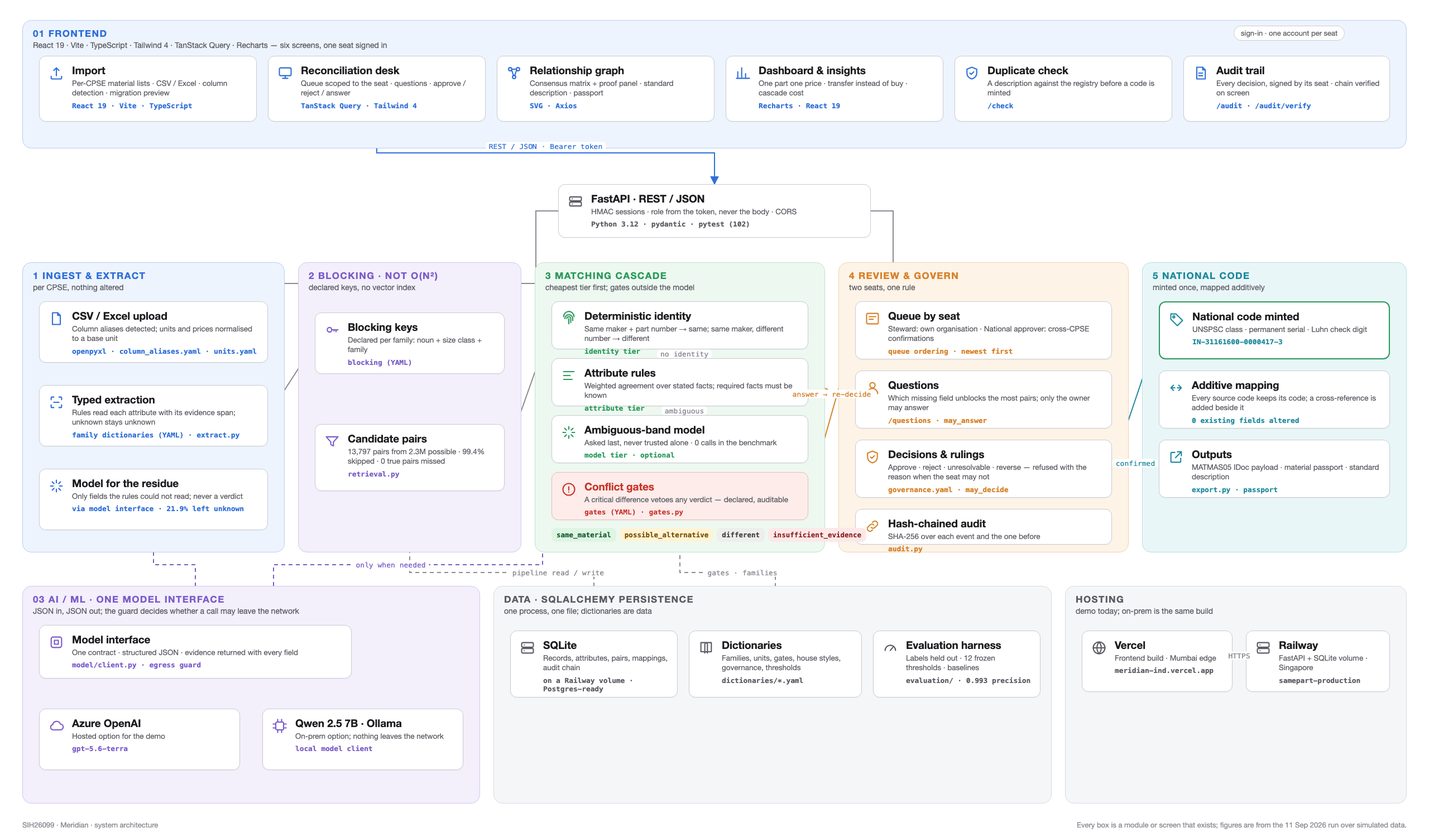
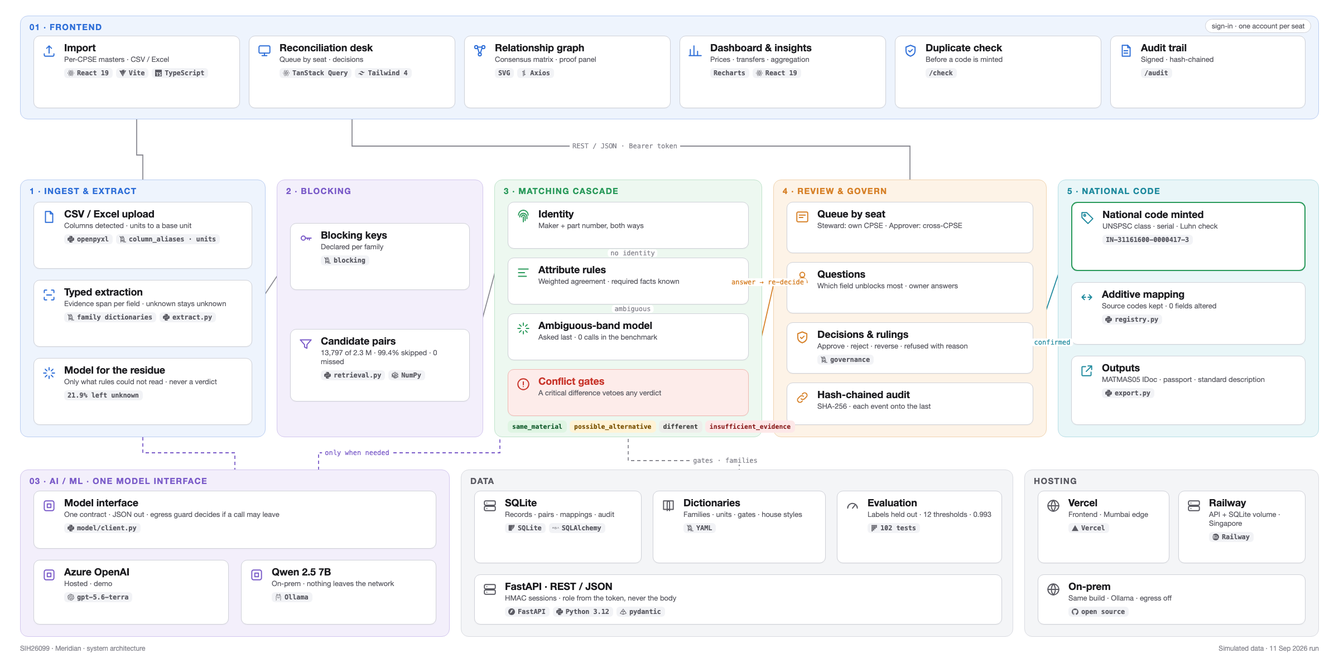
Architecture diagram, compact, with brand marks on the stack
Tighter layout at 2400x1180: no region subtitles, one line per box, and each
technology chip carries its mark (Simple Icons, CC0, vendored under
scripts/graphics/logos so the render needs no network). Same spec-driven
layout; boxes and wires are lists at the top of the file.

diff --git a/scripts/graphics/architecture.html b/scripts/graphics/architecture.html
@@ -3,55 +3,45 @@
 <title>Meridian — architecture</title>
 <style>
   :root{
-    --ink:#1b1b1f; --ink2:#5b5b63; --ink3:#8b8b93; --line:#c9cbd3; --bg:#ffffff;
+    --ink:#1b1b1f; --ink2:#5b5b63; --ink3:#8b8b93; --line:#cfd1d8; --bg:#ffffff;
     --blue:#2f6fd8; --blue-bg:#eef4fd; --blue-line:#b9cdf2;
     --purple:#7b5cc9; --purple-bg:#f3effb; --purple-line:#d3c6ee;
     --green:#2a9a5b; --green-bg:#edf8f0; --green-line:#bfe3cb;
     --orange:#d7822a; --orange-bg:#fdf3e7; --orange-line:#f0d3ae;
     --teal:#1f8a9e; --teal-bg:#e9f6f8; --teal-line:#b6dee5;
     --red:#c8342a; --red-bg:#fdecea; --red-line:#f1b8b2;
-    --grey-bg:#f5f6f8; --grey-line:#d9dbe1;
+    --grey:#5b5b63; --grey-bg:#f4f5f7; --grey-line:#d9dbe1;
   }
   *{box-sizing:border-box}
-  body{margin:0;background:var(--bg);width:2560px;height:1500px;position:relative;font-family:Inter,"Helvetica Neue",Arial,sans-serif;color:var(--ink);overflow:hidden}
-  .region{position:absolute;border-radius:16px;border:1.5px solid;padding:0}
-  .region .rt{position:absolute;left:18px;top:12px;font-size:17px;letter-spacing:.08em;font-weight:700;text-transform:uppercase}
-  .region .rs{position:absolute;left:18px;top:36px;font-size:14px;color:var(--ink2)}
-  .node{position:absolute;background:#fff;border:1.5px solid var(--line);border-radius:12px;padding:14px 16px 12px 58px;box-shadow:0 1px 2px rgba(20,20,30,.04)}
-  .node .ic{position:absolute;left:16px;top:16px;width:28px;height:28px;color:var(--ink2)}
-  .node .ic svg{width:28px;height:28px}
-  .node .t{font-size:19px;font-weight:700;line-height:1.15;letter-spacing:-.005em}
-  .node .s{font-size:13.5px;color:var(--ink2);margin-top:4px;line-height:1.3}
-  .node .k{font-size:13px;margin-top:6px;font-weight:600;font-family:"JetBrains Mono",Menlo,monospace;letter-spacing:-.01em}
-  .node.red{border-color:var(--red-line);background:var(--red-bg)}
-  .node.red .t{color:var(--red)}
+  body{margin:0;background:var(--bg);width:2400px;height:1180px;position:relative;font-family:Inter,"Helvetica Neue",Arial,sans-serif;color:var(--ink);overflow:hidden}
+  .region{position:absolute;border-radius:14px;border:1.5px solid}
+  .region .rt{position:absolute;left:16px;top:10px;font-size:15px;letter-spacing:.09em;font-weight:700;text-transform:uppercase}
+  .node{position:absolute;background:#fff;border:1.5px solid var(--line);border-radius:11px;padding:11px 14px 10px 54px;box-shadow:0 1px 2px rgba(20,20,30,.04)}
+  .node .ic{position:absolute;left:14px;top:13px;width:26px;height:26px}
+  .node .ic svg{width:26px;height:26px}
+  .node .t{font-size:18px;font-weight:700;line-height:1.1;letter-spacing:-.005em}
+  .node .s{font-size:13px;color:var(--ink2);margin-top:3px;line-height:1.25}
+  .node .chips{margin-top:7px;display:flex;flex-wrap:wrap;gap:4px 6px}
+  .chip{display:inline-flex;align-items:center;gap:5px;font-size:12px;font-weight:600;font-family:"JetBrains Mono",Menlo,monospace;letter-spacing:-.01em;color:var(--ink2);background:#f2f3f6;border-radius:6px;padding:2px 7px 2px 6px}
+  .chip i{display:inline-block;width:12px;height:12px;background:currentColor;-webkit-mask:var(--logo) center/contain no-repeat;mask:var(--logo) center/contain no-repeat}
+  .node.red{border-color:var(--red-line);background:var(--red-bg)} .node.red .t{color:var(--red)}
   .node.hot{border-color:var(--green);border-width:2px}
-  .cyl{position:absolute;background:#fff;border:1.5px solid var(--line);border-radius:60px/16px;padding:26px 16px 14px;text-align:center}
-  .cyl:before{content:"";position:absolute;left:0;right:0;top:0;height:22px;border-radius:60px/11px;border:1.5px solid var(--line);border-top:none;background:linear-gradient(#fff,#fff)}
-  .cyl .t{font-size:18px;font-weight:700}
-  .cyl .s{font-size:13px;color:var(--ink2);margin-top:3px}
-  .cyl .k{font-size:12.5px;margin-top:5px;font-weight:600;font-family:"JetBrains Mono",Menlo,monospace}
-  .lbl{position:absolute;font-size:13px;color:var(--ink3);background:#fff;padding:0 6px;border-radius:6px;white-space:nowrap;font-family:"JetBrains Mono",Menlo,monospace}
-  .pill{position:absolute;font-size:13px;color:var(--ink2);background:#fff;border:1.5px solid var(--line);border-radius:999px;padding:5px 12px;white-space:nowrap}
-  .verdicts{position:absolute;display:flex;gap:6px}
-  .v{font-size:12.5px;padding:5px 9px;border-radius:8px;font-weight:600;font-family:"JetBrains Mono",Menlo,monospace}
+  .lbl{position:absolute;font-size:12px;color:var(--ink3);background:#fff;padding:0 5px;border-radius:5px;white-space:nowrap;font-family:"JetBrains Mono",Menlo,monospace}
+  .pill{position:absolute;font-size:12.5px;color:var(--ink2);background:#fff;border:1.5px solid var(--line);border-radius:999px;padding:4px 11px;white-space:nowrap}
+  .verdicts{position:absolute;display:flex;gap:5px}
+  .v{font-size:11.5px;padding:4px 8px;border-radius:7px;font-weight:600;font-family:"JetBrains Mono",Menlo,monospace}
   .v.s{background:#dff5e3;color:#0f5a2a}.v.a{background:#fff3d6;color:#7a5200}.v.d{background:#eeeeeb;color:#444}.v.i{background:#fde8e8;color:#8a1c1c}
-  svg.wires{position:absolute;inset:0;width:2560px;height:1500px;pointer-events:none}
-  .foot{position:absolute;left:40px;right:40px;bottom:14px;display:flex;justify-content:space-between;font-size:13px;color:var(--ink3)}
+  svg.wires{position:absolute;inset:0;width:2400px;height:1180px;pointer-events:none}
+  .foot{position:absolute;left:36px;right:36px;bottom:10px;display:flex;justify-content:space-between;font-size:12px;color:var(--ink3)}
 </style>
 <body>
-<svg class="wires" id="wires">
-  <defs>
-    <marker id="ah" viewBox="0 0 10 10" refX="9" refY="5" markerWidth="8" markerHeight="8" orient="auto-start-reverse">
-      <path d="M0 0L10 5L0 10z" fill="#8b8b93"/></marker>
-    <marker id="ahb" viewBox="0 0 10 10" refX="9" refY="5" markerWidth="8" markerHeight="8" orient="auto-start-reverse">
-      <path d="M0 0L10 5L0 10z" fill="#2f6fd8"/></marker>
-    <marker id="aho" viewBox="0 0 10 10" refX="9" refY="5" markerWidth="8" markerHeight="8" orient="auto-start-reverse">
-      <path d="M0 0L10 5L0 10z" fill="#d7822a"/></marker>
-  </defs>
-</svg>
+<svg class="wires" id="wires"><defs>
+  <marker id="ah" viewBox="0 0 10 10" refX="9" refY="5" markerWidth="7" markerHeight="7" orient="auto-start-reverse"><path d="M0 0L10 5L0 10z" fill="#8b8b93"/></marker>
+  <marker id="aho" viewBox="0 0 10 10" refX="9" refY="5" markerWidth="7" markerHeight="7" orient="auto-start-reverse"><path d="M0 0L10 5L0 10z" fill="#d7822a"/></marker>
+  <marker id="aht" viewBox="0 0 10 10" refX="9" refY="5" markerWidth="7" markerHeight="7" orient="auto-start-reverse"><path d="M0 0L10 5L0 10z" fill="#1f8a9e"/></marker>
+</defs></svg>
 <div id="root"></div>
-<div class="foot"><span>SIH26099 · Meridian · system architecture</span><span>Every box is a module or screen that exists; figures are from the 11 Sep 2026 run over simulated data.</span></div>
+<div class="foot"><span>SIH26099 · Meridian · system architecture</span><span>Simulated data · 11 Sep 2026 run</span></div>
 
 <script>
 const ICON = {
@@ -61,7 +51,6 @@ const ICON = {
   chart:'<svg viewBox="0 0 24 24" fill="none" stroke="currentColor" stroke-width="1.8" stroke-linecap="round" stroke-linejoin="round"><path d="M4 20V10M10 20V4M16 20v-7M22 20H2"/></svg>',
   shield:'<svg viewBox="0 0 24 24" fill="none" stroke="currentColor" stroke-width="1.8" stroke-linecap="round" stroke-linejoin="round"><path d="M12 3 4.5 6v6c0 4.5 3.2 7.6 7.5 9 4.3-1.4 7.5-4.5 7.5-9V6z"/><path d="m9 12 2 2 4-4"/></svg>',
   log:'<svg viewBox="0 0 24 24" fill="none" stroke="currentColor" stroke-width="1.8" stroke-linecap="round" stroke-linejoin="round"><path d="M6 3h9l4 4v14H6z"/><path d="M9 12h6M9 16h6M15 3v4h4"/></svg>',
-  api:'<svg viewBox="0 0 24 24" fill="none" stroke="currentColor" stroke-width="1.8" stroke-linecap="round" stroke-linejoin="round"><rect x="3" y="5" width="18" height="6" rx="1.5"/><rect x="3" y="13" width="18" height="6" rx="1.5"/><path d="M7 8h.01M7 16h.01"/></svg>',
   file:'<svg viewBox="0 0 24 24" fill="none" stroke="currentColor" stroke-width="1.8" stroke-linecap="round" stroke-linejoin="round"><path d="M6 3h8l4 4v14H6z"/><path d="M14 3v4h4"/></svg>',
   filter:'<svg viewBox="0 0 24 24" fill="none" stroke="currentColor" stroke-width="1.8" stroke-linecap="round" stroke-linejoin="round"><path d="M3 5h18l-7 8v6l-4-2v-4z"/></svg>',
   scan:'<svg viewBox="0 0 24 24" fill="none" stroke="currentColor" stroke-width="1.8" stroke-linecap="round" stroke-linejoin="round"><path d="M4 8V5a1 1 0 0 1 1-1h3M16 4h3a1 1 0 0 1 1 1v3M20 16v3a1 1 0 0 1-1 1h-3M8 20H5a1 1 0 0 1-1-1v-3"/><path d="M8 12h8"/></svg>',
@@ -77,162 +66,125 @@ const ICON = {
   link:'<svg viewBox="0 0 24 24" fill="none" stroke="currentColor" stroke-width="1.8" stroke-linecap="round" stroke-linejoin="round"><path d="M4 12h6M14 12h6M8 8l-4 4 4 4M16 8l4 4-4 4"/></svg>',
   out:'<svg viewBox="0 0 24 24" fill="none" stroke="currentColor" stroke-width="1.8" stroke-linecap="round" stroke-linejoin="round"><path d="M14 4h6v6M20 4l-9 9"/><path d="M19 14v5a1 1 0 0 1-1 1H5a1 1 0 0 1-1-1V6a1 1 0 0 1 1-1h5"/></svg>',
   model:'<svg viewBox="0 0 24 24" fill="none" stroke="currentColor" stroke-width="1.8" stroke-linecap="round" stroke-linejoin="round"><rect x="4" y="4" width="16" height="16" rx="3"/><path d="M9 9h6v6H9z"/></svg>',
-  cloud:'<svg viewBox="0 0 24 24" fill="none" stroke="currentColor" stroke-width="1.8" stroke-linecap="round" stroke-linejoin="round"><path d="M7 18a4 4 0 0 1-.6-7.9A6 6 0 0 1 18 9a4.5 4.5 0 0 1 0 9z"/></svg>',
-  chip:'<svg viewBox="0 0 24 24" fill="none" stroke="currentColor" stroke-width="1.8" stroke-linecap="round" stroke-linejoin="round"><rect x="6" y="6" width="12" height="12" rx="2"/><path d="M9 2v4M15 2v4M9 18v4M15 18v4M2 9h4M2 15h4M18 9h4M18 15h4"/></svg>',
+  server:'<svg viewBox="0 0 24 24" fill="none" stroke="currentColor" stroke-width="1.8" stroke-linecap="round" stroke-linejoin="round"><rect x="3" y="4" width="18" height="7" rx="2"/><rect x="3" y="13" width="18" height="7" rx="2"/><path d="M7 7.5h.01M7 16.5h.01"/></svg>',
   book:'<svg viewBox="0 0 24 24" fill="none" stroke="currentColor" stroke-width="1.8" stroke-linecap="round" stroke-linejoin="round"><path d="M4 4h7a3 3 0 0 1 3 3v13a2 2 0 0 0-2-2H4z"/><path d="M20 4h-7a3 3 0 0 0-3 3v13a2 2 0 0 1 2-2h8z"/></svg>',
   gauge:'<svg viewBox="0 0 24 24" fill="none" stroke="currentColor" stroke-width="1.8" stroke-linecap="round" stroke-linejoin="round"><path d="M4 16a8 8 0 1 1 16 0"/><path d="M12 16l4-5"/></svg>',
-  server:'<svg viewBox="0 0 24 24" fill="none" stroke="currentColor" stroke-width="1.8" stroke-linecap="round" stroke-linejoin="round"><rect x="3" y="4" width="18" height="7" rx="2"/><rect x="3" y="13" width="18" height="7" rx="2"/><path d="M7 7.5h.01M7 16.5h.01"/></svg>',
   globe:'<svg viewBox="0 0 24 24" fill="none" stroke="currentColor" stroke-width="1.8" stroke-linecap="round" stroke-linejoin="round"><circle cx="12" cy="12" r="9"/><path d="M3 12h18M12 3a14 14 0 0 1 0 18M12 3a14 14 0 0 0 0 18"/></svg>',
 };
-
 const C = {blue:'#2f6fd8',purple:'#7b5cc9',green:'#2a9a5b',orange:'#d7822a',teal:'#1f8a9e',red:'#c8342a',grey:'#5b5b63'};
+const chip = (spec)=>{ const [logo,label]=spec.includes('|')?spec.split('|'):['',spec];
+  return `<span class="chip">${logo?`<i style="--logo:url(logos/${logo}.svg)"></i>`:''}${label}</span>`; };
 
 const REGIONS = [
-  {id:'fe', x:40, y:36,  w:2480, h:230, tone:'blue',   t:'01  Frontend', s:'React 19 · Vite · TypeScript · Tailwind 4 · TanStack Query · Recharts — six screens, one seat signed in'},
-  {id:'p1', x:40, y:470, w:470,  h:520, tone:'blue',   t:'1  Ingest & extract', s:'per CPSE, nothing altered'},
-  {id:'p2', x:534,y:470, w:400,  h:520, tone:'purple', t:'2  Blocking · not O(n²)', s:'declared keys, no vector index'},
-  {id:'p3', x:958,y:470, w:520,  h:520, tone:'green',  t:'3  Matching cascade', s:'cheapest tier first; gates outside the model'},
-  {id:'p4', x:1502,y:470,w:520,  h:520, tone:'orange', t:'4  Review & govern', s:'two seats, one rule'},
-  {id:'p5', x:2046,y:470,w:474,  h:520, tone:'teal',   t:'5  National code', s:'minted once, mapped additively'},
-  {id:'ai', x:40, y:1050,w:820,  h:390, tone:'purple', t:'03  AI / ML · one model interface', s:'JSON in, JSON out; the guard decides whether a call may leave the network'},
-  {id:'da', x:884,y:1050,w:1000, h:390, tone:'grey',   t:'Data · SQLAlchemy persistence', s:'one process, one file; dictionaries are data'},
-  {id:'ho', x:1908,y:1050,w:612, h:390, tone:'grey',   t:'Hosting', s:'demo today; on-prem is the same build'},
+  {id:'fe', x:36, y:28,  w:2328, h:186, tone:'blue',   t:'01 · Frontend'},
+  {id:'p1', x:36, y:322, w:440,  h:462, tone:'blue',   t:'1 · Ingest & extract'},
+  {id:'p2', x:496,y:322, w:370,  h:462, tone:'purple', t:'2 · Blocking'},
+  {id:'p3', x:886,y:322, w:480,  h:462, tone:'green',  t:'3 · Matching cascade'},
+  {id:'p4', x:1386,y:322,w:490,  h:462, tone:'orange', t:'4 · Review & govern'},
+  {id:'p5', x:1896,y:322,w:468,  h:462, tone:'teal',   t:'5 · National code'},
+  {id:'ai', x:36, y:842, w:770,  h:300, tone:'purple', t:'03 · AI / ML · one model interface'},
+  {id:'da', x:826,y:842, w:990,  h:300, tone:'grey',   t:'Data'},
+  {id:'ho', x:1836,y:842,w:528,  h:300, tone:'grey',   t:'Hosting'},
 ];
 
 const NODES = [
-  // frontend
-  {id:'fe1', x:70,  y:100, w:390, h:118, ic:'upload', t:'Import',              s:'Per-CPSE material lists · CSV / Excel · column detection · migration preview', k:'React 19 · Vite · TypeScript', tone:'blue'},
-  {id:'fe2', x:480, y:100, w:390, h:118, ic:'desk',   t:'Reconciliation desk', s:'Queue scoped to the seat · questions · approve / reject / answer', k:'TanStack Query · Tailwind 4', tone:'blue'},
-  {id:'fe3', x:890, y:100, w:390, h:118, ic:'graph',  t:'Relationship graph', s:'Consensus matrix + proof panel · standard description · passport', k:'SVG · Axios', tone:'blue'},
-  {id:'fe4', x:1300,y:100, w:390, h:118, ic:'chart',  t:'Dashboard & insights',s:'One part one price · transfer instead of buy · cascade cost', k:'Recharts · React 19', tone:'blue'},
-  {id:'fe5', x:1710,y:100, w:390, h:118, ic:'shield', t:'Duplicate check',    s:'A description against the registry before a code is minted', k:'/check', tone:'blue'},
-  {id:'fe6', x:2120,y:100, w:370, h:118, ic:'log',    t:'Audit trail',        s:'Every decision, signed by its seat · chain verified on screen', k:'/audit · /audit/verify', tone:'blue'},
-  // api
-  {id:'api', x:1000,y:330, w:560, h:96,  ic:'api',    t:'FastAPI · REST / JSON', s:'HMAC sessions · role from the token, never the body · CORS', k:'Python 3.12 · pydantic · pytest (102)', tone:'grey'},
-  // p1
-  {id:'p1a', x:70,  y:540, w:410, h:110, ic:'file',   t:'CSV / Excel upload',  s:'Column aliases detected; units and prices normalised to a base unit', k:'openpyxl · column_aliases.yaml · units.yaml', tone:'blue'},
-  {id:'p1b', x:70,  y:690, w:410, h:110, ic:'scan',   t:'Typed extraction',    s:'Rules read each attribute with its evidence span; unknown stays unknown', k:'family dictionaries (YAML) · extract.py', tone:'blue'},
-  {id:'p1c', x:70,  y:840, w:410, h:110, ic:'spark',  t:'Model for the residue',s:'Only fields the rules could not read; never a verdict', k:'via model interface · 21.9% left unknown', tone:'blue'},
-  // p2
-  {id:'p2a', x:564, y:560, w:340, h:110, ic:'key',    t:'Blocking keys',       s:'Declared per family: noun + size class + family', k:'blocking (YAML)', tone:'purple'},
-  {id:'p2b', x:564, y:760, w:340, h:120, ic:'filter', t:'Candidate pairs',     s:'13,797 pairs from 2.3M possible · 99.4% skipped · 0 true pairs missed', k:'retrieval.py', tone:'purple'},
-  // p3
-  {id:'p3a', x:988, y:540, w:460, h:86,  ic:'fp',     t:'Deterministic identity', s:'Same maker + part number → same; same maker, different number → different', k:'identity tier', tone:'green'},
-  {id:'p3b', x:988, y:642, w:460, h:86,  ic:'rules',  t:'Attribute rules',     s:'Weighted agreement over stated facts; required facts must be known', k:'attribute tier', tone:'green'},
-  {id:'p3c', x:988, y:744, w:460, h:86,  ic:'spark',  t:'Ambiguous-band model', s:'Asked last, never trusted alone · 0 calls in the benchmark', k:'model tier · optional', tone:'green'},
-  {id:'p3d', x:988, y:846, w:460, h:86,  ic:'alert',  t:'Conflict gates',      s:'A critical difference vetoes any verdict — declared, auditable', k:'gates (YAML) · gates.py', tone:'red', cls:'red'},
-  // p4
-  {id:'p4a', x:1532,y:540, w:460, h:104, ic:'queue',  t:'Queue by seat',       s:'Steward: own organisation · National approver: cross-CPSE confirmations', k:'queue ordering · newest first', tone:'orange'},
-  {id:'p4b', x:1532,y:664, w:460, h:104, ic:'person', t:'Questions',           s:'Which missing field unblocks the most pairs; only the owner may answer', k:'/questions · may_answer', tone:'orange'},
-  {id:'p4c', x:1532,y:788, w:460, h:104, ic:'shield', t:'Decisions & rulings', s:'Approve · reject · unresolvable · reverse — refused with the reason when the seat may not', k:'governance.yaml · may_decide', tone:'orange'},
-  {id:'p4d', x:1532,y:912, w:460, h:64,  ic:'chain',  t:'Hash-chained audit',  s:'SHA-256 over each event and the one before', k:'audit.py', tone:'orange'},
-  // p5
-  {id:'p5a', x:2076,y:540, w:414, h:104, ic:'tag',    t:'National code minted', s:'UNSPSC class · permanent serial · Luhn check digit', k:'IN-31161600-0000417-3', tone:'teal', cls:'hot'},
-  {id:'p5b', x:2076,y:664, w:414, h:104, ic:'link',   t:'Additive mapping',    s:'Every source code keeps its code; a cross-reference is added beside it', k:'0 existing fields altered', tone:'teal'},
-  {id:'p5c', x:2076,y:788, w:414, h:104, ic:'out',    t:'Outputs',             s:'MATMAS05 IDoc payload · material passport · standard description', k:'export.py · passport', tone:'teal'},
-  // ai
-  {id:'ai1', x:70,  y:1120, w:560, h:96, ic:'model',  t:'Model interface',     s:'One contract · structured JSON · evidence returned with every field', k:'model/client.py · egress guard', tone:'purple'},
-  {id:'ai2', x:70,  y:1270, w:360, h:110, ic:'cloud', t:'Azure OpenAI',        s:'Hosted option for the demo', k:'gpt-5.6-terra', tone:'purple'},
-  {id:'ai3', x:470, y:1270, w:360, h:110, ic:'chip',  t:'Qwen 2.5 7B · Ollama', s:'On-prem option; nothing leaves the network', k:'local model client', tone:'purple'},
-  // data
-  {id:'da1', x:914, y:1130, w:300, h:120, ic:'server', t:'SQLite',             s:'Records, attributes, pairs, mappings, audit chain', k:'on a Railway volume · Postgres-ready', tone:'grey'},
-  {id:'da2', x:1234,y:1130, w:310, h:120, ic:'book',  t:'Dictionaries',        s:'Families, units, gates, house styles, governance, thresholds', k:'dictionaries/*.yaml', tone:'grey'},
-  {id:'da3', x:1564,y:1130, w:300, h:120, ic:'gauge', t:'Evaluation harness',  s:'Labels held out · 12 frozen thresholds · baselines', k:'evaluation/ · 0.993 precision', tone:'grey'},
-  // hosting
-  {id:'ho1', x:1938,y:1130, w:270, h:110, ic:'globe',  t:'Vercel',             s:'Frontend build · Mumbai edge', k:'meridian-ind.vercel.app', tone:'grey'},
-  {id:'ho2', x:2232,y:1130, w:258, h:110, ic:'server', t:'Railway',            s:'FastAPI + SQLite volume · Singapore', k:'samepart-production', tone:'grey'},
+  {id:'fe1', x:60,  y:64, w:370, h:130, ic:'upload', t:'Import',              s:'Per-CPSE masters · CSV / Excel', tone:'blue', chips:['react|React 19','vite|Vite','typescript|TypeScript']},
+  {id:'fe2', x:446, y:64, w:370, h:130, ic:'desk',   t:'Reconciliation desk', s:'Queue by seat · decisions', tone:'blue', chips:['reactquery|TanStack Query','tailwindcss|Tailwind 4']},
+  {id:'fe3', x:832, y:64, w:370, h:130, ic:'graph',  t:'Relationship graph', s:'Consensus matrix · proof panel', tone:'blue', chips:['|SVG','axios|Axios']},
+  {id:'fe4', x:1218,y:64, w:370, h:130, ic:'chart',  t:'Dashboard & insights',s:'Prices · transfers · aggregation', tone:'blue', chips:['|Recharts','react|React 19']},
+  {id:'fe5', x:1604,y:64, w:370, h:130, ic:'shield', t:'Duplicate check',    s:'Before a code is minted', tone:'blue', chips:['|/check']},
+  {id:'fe6', x:1990,y:64, w:350, h:130, ic:'log',    t:'Audit trail',        s:'Signed · hash-chained', tone:'blue', chips:['|/audit']},
+  {id:'p1a', x:60,  y:362, w:392, h:120, ic:'file',   t:'CSV / Excel upload',  s:'Columns detected · units to a base unit', tone:'blue', chips:['python|openpyxl','yaml|column_aliases · units']},
+  {id:'p1b', x:60,  y:502, w:392, h:120, ic:'scan',   t:'Typed extraction',    s:'Evidence span per field · unknown stays unknown', tone:'blue', chips:['yaml|family dictionaries','python|extract.py']},
+  {id:'p1c', x:60,  y:642, w:392, h:120, ic:'spark',  t:'Model for the residue',s:'Only what rules could not read · never a verdict', tone:'blue', chips:['|21.9% left unknown']},
+  {id:'p2a', x:520, y:400, w:322, h:120, ic:'key',    t:'Blocking keys',       s:'Declared per family', tone:'purple', chips:['yaml|blocking']},
+  {id:'p2b', x:520, y:590, w:322, h:130, ic:'filter', t:'Candidate pairs',     s:'13,797 of 2.3 M · 99.4% skipped · 0 missed', tone:'purple', chips:['python|retrieval.py','numpy|NumPy']},
+  {id:'p3a', x:910, y:362, w:432, h:84,  ic:'fp',     t:'Identity',            s:'Maker + part number, both ways', tone:'green', chips:[]},
+  {id:'p3b', x:910, y:462, w:432, h:84,  ic:'rules',  t:'Attribute rules',     s:'Weighted agreement · required facts known', tone:'green', chips:[]},
+  {id:'p3c', x:910, y:562, w:432, h:84,  ic:'spark',  t:'Ambiguous-band model', s:'Asked last · 0 calls in the benchmark', tone:'green', chips:[]},
+  {id:'p3d', x:910, y:662, w:432, h:84,  ic:'alert',  t:'Conflict gates',      s:'A critical difference vetoes any verdict', tone:'red', cls:'red', chips:[]},
+  {id:'p4a', x:1410,y:362, w:442, h:92,  ic:'queue',  t:'Queue by seat',       s:'Steward: own CPSE · Approver: cross-CPSE', tone:'orange', chips:[]},
+  {id:'p4b', x:1410,y:470, w:442, h:92,  ic:'person', t:'Questions',           s:'Which field unblocks most · owner answers', tone:'orange', chips:[]},
+  {id:'p4c', x:1410,y:578, w:442, h:92,  ic:'shield', t:'Decisions & rulings', s:'Approve · reject · reverse · refused with reason', tone:'orange', chips:['yaml|governance']},
+  {id:'p4d', x:1410,y:686, w:442, h:76,  ic:'chain',  t:'Hash-chained audit',  s:'SHA-256 · each event onto the last', tone:'orange', chips:[]},
+  {id:'p5a', x:1920,y:362, w:420, h:124, ic:'tag',    t:'National code minted', s:'UNSPSC class · serial · Luhn check', tone:'teal', cls:'hot', chips:['|IN-31161600-0000417-3']},
+  {id:'p5b', x:1920,y:506, w:420, h:112, ic:'link',   t:'Additive mapping',    s:'Source codes kept · 0 fields altered', tone:'teal', chips:['python|registry.py']},
+  {id:'p5c', x:1920,y:638, w:420, h:124, ic:'out',    t:'Outputs',             s:'MATMAS05 IDoc · passport · standard description', tone:'teal', chips:['python|export.py']},
+  {id:'ai1', x:60,  y:880, w:722, h:104, ic:'model',  t:'Model interface',     s:'One contract · JSON out · egress guard decides if a call may leave', tone:'purple', chips:['python|model/client.py']},
+  {id:'ai2', x:60,  y:1004,w:350, h:116, ic:'model',  t:'Azure OpenAI',        s:'Hosted · demo', tone:'purple', chips:['openai|gpt-5.6-terra']},
+  {id:'ai3', x:432, y:1004,w:350, h:116, ic:'model',  t:'Qwen 2.5 7B',         s:'On-prem · nothing leaves the network', tone:'purple', chips:['ollama|Ollama']},
+  {id:'da1', x:850, y:880, w:300, h:130, ic:'server', t:'SQLite',              s:'Records · pairs · mappings · audit', tone:'grey', chips:['sqlite|SQLite','sqlalchemy|SQLAlchemy']},
+  {id:'da2', x:1170,y:880, w:310, h:130, ic:'book',   t:'Dictionaries',        s:'Families · units · gates · house styles', tone:'grey', chips:['yaml|YAML']},
+  {id:'da3', x:1500,y:880, w:296, h:130, ic:'gauge',  t:'Evaluation',          s:'Labels held out · 12 thresholds · 0.993', tone:'grey', chips:['pytest|102 tests']},
+  {id:'da4', x:850, y:1030,w:946, h:90,  ic:'server', t:'FastAPI · REST / JSON', s:'HMAC sessions · role from the token, never the body', tone:'grey', chips:['fastapi|FastAPI','python|Python 3.12','pydantic|pydantic']},
+  {id:'ho1', x:1860,y:880, w:236, h:130, ic:'globe',  t:'Vercel',              s:'Frontend · Mumbai edge', tone:'grey', chips:['vercel|Vercel']},
+  {id:'ho2', x:2112,y:880, w:228, h:130, ic:'server', t:'Railway',             s:'API + SQLite volume · Singapore', tone:'grey', chips:['railway|Railway']},
+  {id:'ho3', x:1860,y:1030,w:480, h:90,  ic:'globe',  t:'On-prem',             s:'Same build · Ollama · egress off', tone:'grey', chips:['github|open source']},
 ];
 
 const WIRES = [
-  // frontend ↔ api
-  {from:'fe2', to:'api', label:'REST / JSON · Bearer token', dashed:false, tone:'blue', via:'v'},
-  // api → pipeline
-  {from:'api', to:'p1a', dashed:false, tone:'grey', via:'elbowL'},
-  {from:'api', to:'p4a', dashed:false, tone:'grey', via:'elbowR'},
-  // pipeline
+  {from:'fe2', to:'p4a', via:'row', row:262, label:'REST / JSON · Bearer token', lx:1120},
+  {from:'fe1', to:'p1a', via:'v'},
   {from:'p1a', to:'p1b', via:'v'}, {from:'p1b', to:'p1c', via:'v'},
   {from:'p1b', to:'p2a', via:'h'}, {from:'p2a', to:'p2b', via:'v'},
   {from:'p2b', to:'p3a', via:'h'},
-  {from:'p3a', to:'p3b', via:'v', label:'no identity'}, {from:'p3b', to:'p3c', via:'v', label:'ambiguous'},
-  {from:'p3c', to:'p3d', via:'v'},
+  {from:'p3a', to:'p3b', via:'v', label:'no identity'}, {from:'p3b', to:'p3c', via:'v', label:'ambiguous'}, {from:'p3c', to:'p3d', via:'v'},
   {from:'p3d', to:'p4a', via:'h', tone:'orange'},
   {from:'p4a', to:'p4b', via:'v'}, {from:'p4b', to:'p4c', via:'v'}, {from:'p4c', to:'p4d', via:'v'},
-  {from:'p4b', to:'p3b', via:'h', dashed:true, tone:'orange', label:'answer → re-decide', back:true},
+  {from:'p4b', to:'p3b', via:'h', back:true, dashed:true, tone:'orange', label:'answer → re-decide'},
   {from:'p4c', to:'p5a', via:'h', tone:'teal', label:'confirmed'},
   {from:'p5a', to:'p5b', via:'v'}, {from:'p5b', to:'p5c', via:'v'},
-  // model
-  {from:'p1c', to:'ai1', via:'row', row:1012, dashed:true, tone:'purple'},
-  {from:'p3c', to:'ai1', via:'rowL', row:1012, dashed:true, tone:'purple', label:'only when needed', lx:700},
+  {from:'p1c', to:'ai1', via:'row', row:812, dashed:true, tone:'purple'},
+  {from:'p3c', to:'ai1', via:'rowL', row:812, dashed:true, tone:'purple', label:'only when needed', lx:640},
   {from:'ai1', to:'ai2', via:'v'}, {from:'ai1', to:'ai3', via:'vR'},
-  // data
-  {from:'p2b', to:'da1', via:'row', row:1026, dashed:true, tone:'grey', label:'pipeline read / write', lx:1000},
-  {from:'da2', to:'p3d', via:'rowUp', row:1026, dashed:true, tone:'grey', label:'gates · families', lx:1330},
-  // hosting
-  {from:'ho1', to:'ho2', via:'h', label:'HTTPS'},
+  {from:'da2', to:'p3d', via:'rowUp', row:826, dashed:true, tone:'grey', label:'gates · families', lx:1300},
+  {from:'ho1', to:'ho2', via:'h'},
 ];
 
 const root = document.getElementById('root');
-const tone = (t)=>({fill:getComputedStyle(document.documentElement).getPropertyValue(`--${t}-bg`), line:getComputedStyle(document.documentElement).getPropertyValue(`--${t}-line`), ink:C[t]||C.grey});
-
+const cssv = (n)=>getComputedStyle(document.documentElement).getPropertyValue(n).trim();
 for (const r of REGIONS) {
   const d = document.createElement('div'); d.className='region';
-  const tn = tone(r.tone);
-  d.style.cssText=`left:${r.x}px;top:${r.y}px;width:${r.w}px;height:${r.h}px;background:${tn.fill};border-color:${tn.line}`;
-  d.innerHTML=`<div class="rt" style="color:${tn.ink}">${r.t}</div><div class="rs">${r.s}</div>`;
-  root.appendChild(d);
+  d.style.cssText=`left:${r.x}px;top:${r.y}px;width:${r.w}px;height:${r.h}px;background:${cssv('--'+r.tone+'-bg')};border-color:${cssv('--'+r.tone+'-line')}`;
+  d.innerHTML=`<div class="rt" style="color:${C[r.tone]}">${r.t}</div>`; root.appendChild(d);
 }
 const box = {};
 for (const n of NODES) {
   const d = document.createElement('div'); d.className='node'+(n.cls?' '+n.cls:'');
   d.style.cssText=`left:${n.x}px;top:${n.y}px;width:${n.w}px;height:${n.h}px`;
   const ink = C[n.tone]||C.grey;
-  d.innerHTML=`<div class="ic" style="color:${ink}">${ICON[n.ic]}</div><div class="t">${n.t}</div><div class="s">${n.s}</div><div class="k" style="color:${ink}">${n.k}</div>`;
+  d.innerHTML=`<div class="ic" style="color:${ink}">${ICON[n.ic]}</div><div class="t">${n.t}</div><div class="s">${n.s}</div>`+(n.chips.length?`<div class="chips" style="color:${ink}">${n.chips.map(chip).join('')}</div>`:'');
   root.appendChild(d); box[n.id]=n;
 }
-// verdict chips under the cascade
-const vd = document.createElement('div'); vd.className='verdicts'; vd.style.cssText='left:988px;top:946px';
-vd.innerHTML='<span class="v s">same_material</span><span class="v a">possible_alternative</span><span class="v d">different</span><span class="v i">insufficient_evidence</span>';
-root.appendChild(vd);
-// seat pill on the frontend band
-const pill = document.createElement('div'); pill.className='pill'; pill.style.cssText='left:2210px;top:46px'; pill.textContent='sign-in · one account per seat'; root.appendChild(pill);
+const vd = document.createElement('div'); vd.className='verdicts'; vd.style.cssText='left:910px;top:754px';
+vd.innerHTML='<span class="v s">same_material</span><span class="v a">possible_alternative</span><span class="v d">different</span><span class="v i">insufficient_evidence</span>'; root.appendChild(vd);
+const pill = document.createElement('div'); pill.className='pill'; pill.style.cssText='left:2160px;top:34px'; pill.textContent='sign-in · one account per seat'; root.appendChild(pill);
 
-// wires
 const svg = document.getElementById('wires');
 const anchors = (n)=>({L:[n.x,n.y+n.h/2], R:[n.x+n.w,n.y+n.h/2], T:[n.x+n.w/2,n.y], B:[n.x+n.w/2,n.y+n.h]});
 function path(w) {
-  const a=box[w.from], b=box[w.to]; const A=anchors(a), B=anchors(b);
-  let d, mid;
+  const a=box[w.from], b=box[w.to]; const A=anchors(a), B=anchors(b); let d, mid;
   switch (w.via) {
-    case 'v':       if (Math.abs(A.B[0]-B.T[0])<4) { d=`M${A.B} L${B.T}`; mid=[A.B[0]+8,(A.B[1]+B.T[1])/2]; }
-                    else { const my=(A.B[1]+B.T[1])/2; d=`M${A.B} L${A.B[0]} ${my} L${B.T[0]} ${my} L${B.T}`; mid=[(A.B[0]+B.T[0])/2, my-12]; } break;
-    case 'up':      { const my=(A.T[1]+B.B[1])/2; d=`M${A.T} L${A.T[0]} ${my} L${B.B[0]} ${my} L${B.B}`; } break;
-    case 'row':     d=`M${A.B} L${A.B[0]} ${w.row} L${B.T[0]} ${w.row} L${B.T}`; mid=[w.lx||(A.B[0]+B.T[0])/2, w.row]; break;
-    case 'rowL':    d=`M${A.L} L${A.L[0]-16} ${A.L[1]} L${A.L[0]-16} ${w.row} L${B.T[0]+140} ${w.row} L${B.T[0]+140} ${B.T[1]}`; mid=[w.lx||A.L[0]-16, w.row]; break;
-    case 'rowUp':   d=`M${A.T} L${A.T[0]} ${w.row} L${B.B[0]} ${w.row} L${B.B}`; mid=[w.lx||(A.T[0]+B.B[0])/2, w.row]; break;
-    case 'vR':      d=`M${A.B[0]+120} ${A.B[1]} L${A.B[0]+120} ${B.T[1]-18} L${B.T[0]} ${B.T[1]-18} L${B.T}`; break;
-    case 'vUp':     d=`M${A.T} L${A.T[0]} ${A.T[1]-40} L${B.B[0]} ${A.T[1]-40} L${B.B}`; mid=[(A.T[0]+B.B[0])/2, A.T[1]-46]; break;
-    case 'vDown':   d=`M${A.B} L${A.B[0]} ${B.T[1]-20} L${B.T[0]-160} ${B.T[1]-20} L${B.T[0]-160} ${B.T[1]}`; break;
-    case 'vDownL':  d=`M${A.L} L${A.L[0]-16} ${A.L[1]} L${A.L[0]-16} ${B.T[1]-40} L${B.T[0]+120} ${B.T[1]-40} L${B.T[0]+120} ${B.T[1]}`; mid=[A.L[0]-16, B.T[1]-46]; break;
-    case 'vDownR':  d=`M${A.B} L${A.B[0]} ${A.B[1]+90} L${B.T[0]} ${A.B[1]+90} L${B.T}`; mid=[(A.B[0]+B.T[0])/2, A.B[1]+84]; break;
-    case 'h':       if (w.back) { d=`M${A.L} L${B.R}`; mid=[(A.L[0]+B.R[0])/2, A.L[1]-10]; } else { d=`M${A.R} L${B.L}`; mid=[(A.R[0]+B.L[0])/2, A.R[1]-10]; } break;
-    case 'elbowL':  d=`M${A.L} L${a.x-40} ${A.L[1]} L${a.x-40} ${b.y-32} L${B.T[0]} ${b.y-32} L${B.T}`; break;
-    case 'elbowR':  d=`M${A.R} L${a.x+a.w+40} ${A.R[1]} L${a.x+a.w+40} ${b.y-32} L${B.T[0]} ${b.y-32} L${B.T}`; break;
+    case 'v':      if (Math.abs(A.B[0]-B.T[0])<4) { d=`M${A.B} L${B.T}`; mid=[A.B[0]+8,(A.B[1]+B.T[1])/2]; }
+                   else { const my=(A.B[1]+B.T[1])/2; d=`M${A.B} L${A.B[0]} ${my} L${B.T[0]} ${my} L${B.T}`; mid=[(A.B[0]+B.T[0])/2, my-12]; } break;
+    case 'vR':     d=`M${A.B[0]+140} ${A.B[1]} L${A.B[0]+140} ${B.T[1]-10} L${B.T[0]} ${B.T[1]-10} L${B.T}`; break;
+    case 'row':    d=`M${A.B} L${A.B[0]} ${w.row} L${B.T[0]} ${w.row} L${B.T}`; mid=[w.lx||(A.B[0]+B.T[0])/2, w.row]; break;
+    case 'rowL':   d=`M${A.L} L${A.L[0]-14} ${A.L[1]} L${A.L[0]-14} ${w.row} L${B.T[0]+150} ${w.row} L${B.T[0]+150} ${B.T[1]}`; mid=[w.lx||A.L[0]-14, w.row]; break;
+    case 'rowUp':  d=`M${A.T} L${A.T[0]} ${w.row} L${B.B[0]} ${w.row} L${B.B}`; mid=[w.lx||(A.T[0]+B.B[0])/2, w.row]; break;
+    case 'h':      if (w.back) { d=`M${A.L} L${B.R}`; mid=[(A.L[0]+B.R[0])/2, A.L[1]-10]; } else { d=`M${A.R} L${B.L}`; mid=[(A.R[0]+B.L[0])/2, A.R[1]-10]; } break;
   }
   return {d, mid};
 }
 for (const w of WIRES) {
   const {d, mid} = path(w);
+  const col = w.tone==='orange'?'#d7822a':w.tone==='teal'?'#1f8a9e':w.tone==='purple'?'#7b5cc9':'#8b8b93';
   const p = document.createElementNS('http://www.w3.org/2000/svg','path');
-  const col = w.tone==='blue'?'#2f6fd8':w.tone==='orange'?'#d7822a':w.tone==='teal'?'#1f8a9e':w.tone==='purple'?'#7b5cc9':'#8b8b93';
-  p.setAttribute('d', d); p.setAttribute('fill','none'); p.setAttribute('stroke', col); p.setAttribute('stroke-width','2');
-  if (w.dashed) p.setAttribute('stroke-dasharray','7 6');
-  p.setAttribute('marker-end', w.tone==='blue'?'url(#ahb)':w.tone==='orange'?'url(#aho)':'url(#ah)');
+  p.setAttribute('d', d); p.setAttribute('fill','none'); p.setAttribute('stroke', col); p.setAttribute('stroke-width','1.8');
+  if (w.dashed) p.setAttribute('stroke-dasharray','6 5');
+  p.setAttribute('marker-end', w.tone==='orange'?'url(#aho)':w.tone==='teal'?'url(#aht)':'url(#ah)');
   svg.appendChild(p);
-  if (w.label && mid) {
-    const l = document.createElement('div'); l.className='lbl'; l.textContent=w.label;
-    l.style.cssText=`left:${mid[0]}px;top:${mid[1]}px;transform:translate(-50%,-50%);color:${col}`;
-    root.appendChild(l);
-  }
+  if (w.label && mid) { const l=document.createElement('div'); l.className='lbl'; l.textContent=w.label;
+    l.style.cssText=`left:${mid[0]}px;top:${mid[1]}px;transform:translate(-50%,-50%);color:${col}`; root.appendChild(l); }
 }
 </script>
 </body>
